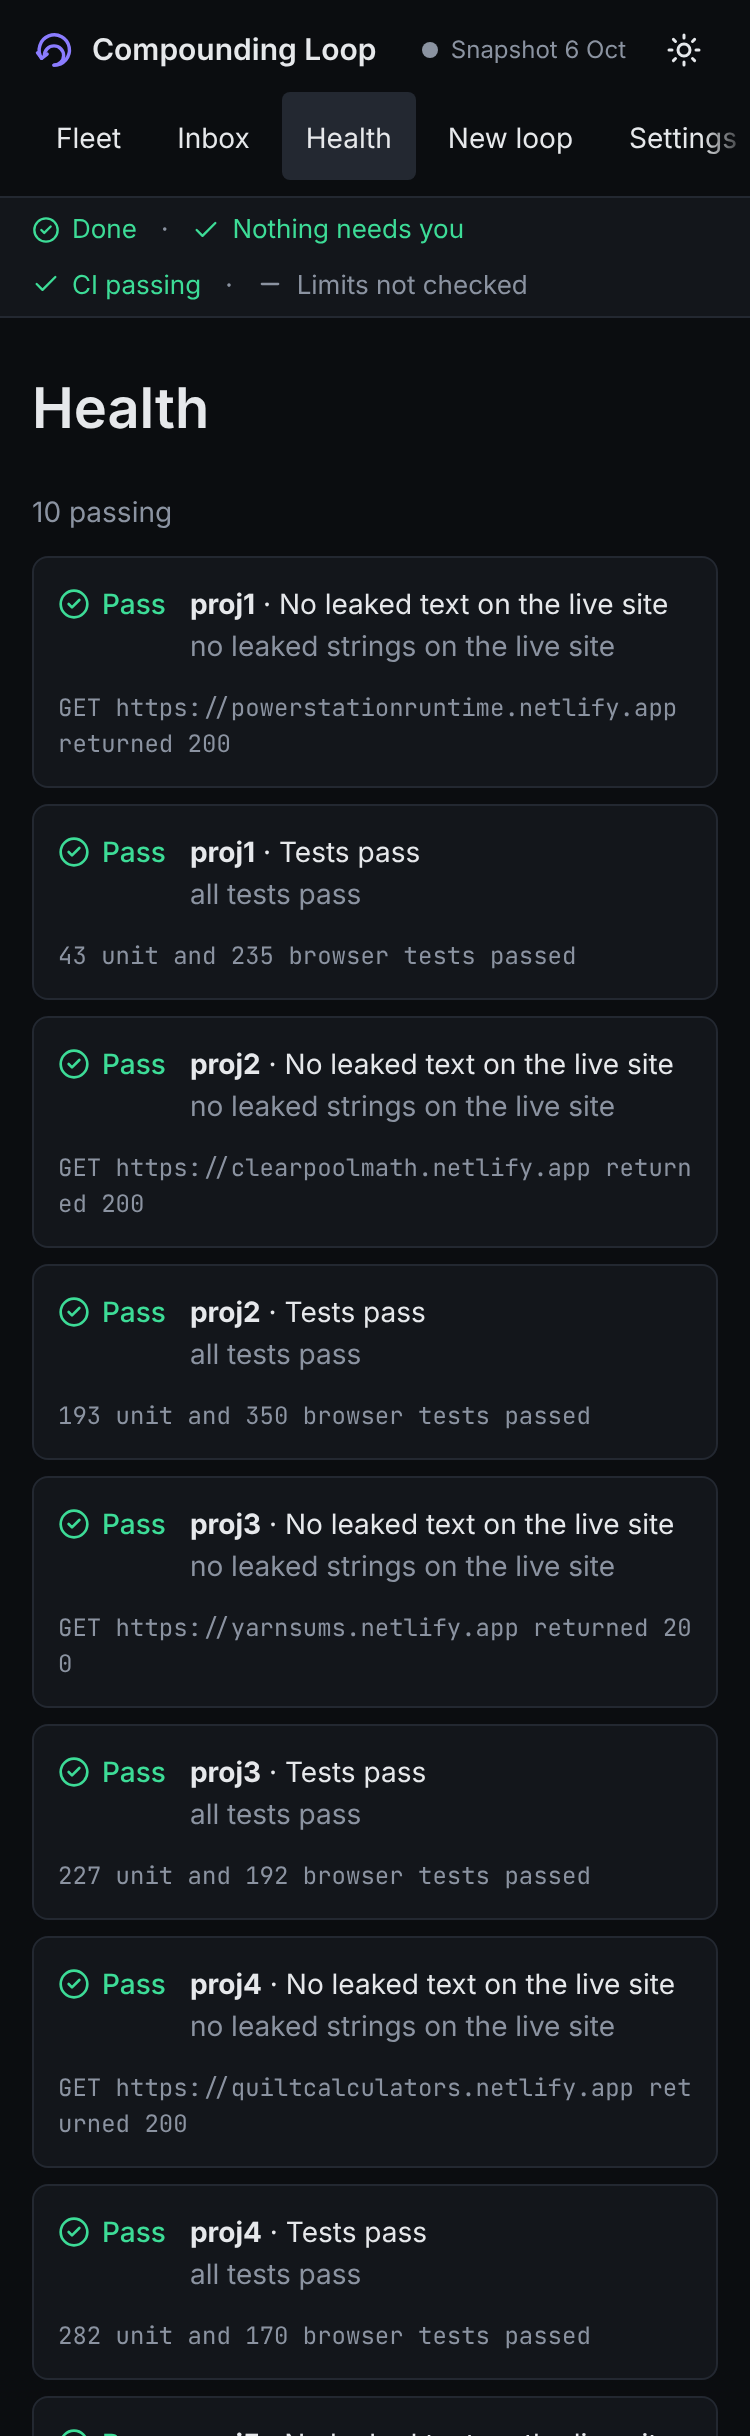
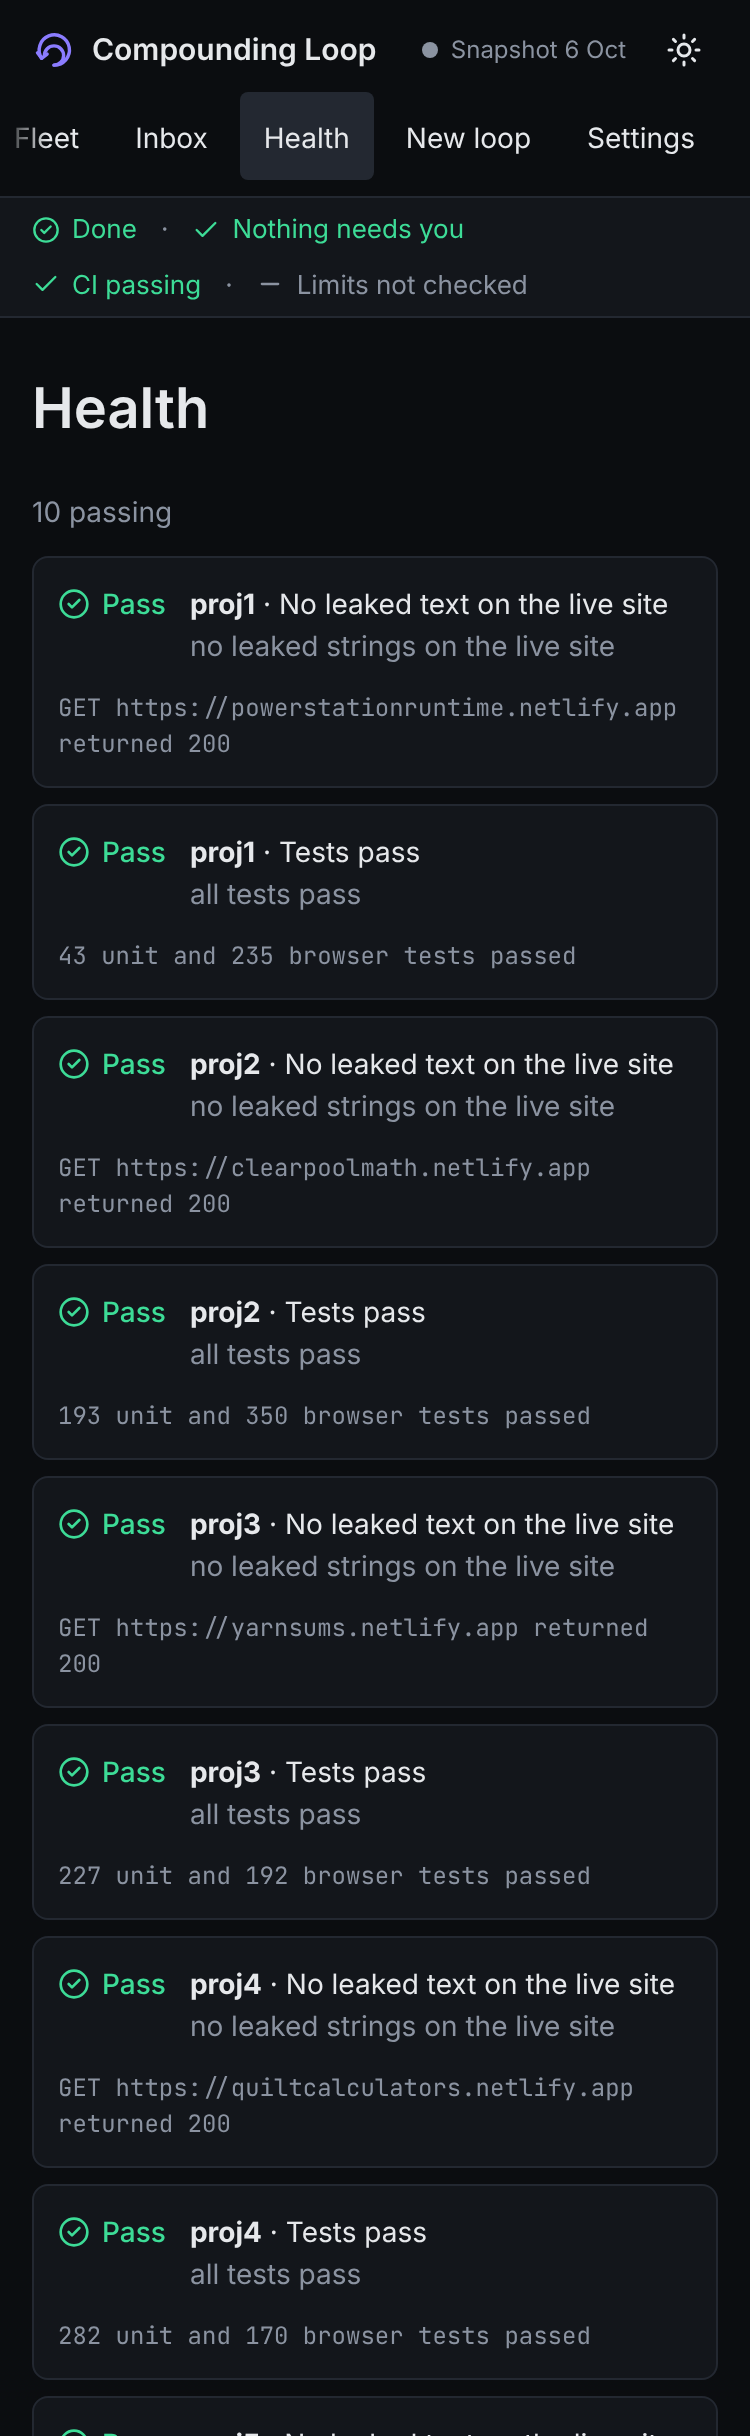
web: fleet limit stops total the loops that report them and name the unchecked rest; re-shoot Health phone
Lane: web

Claude-Session: https://claude.ai/code/session_0135eEZbXzaftKM6SoTFzsNQ

diff --git a/web/src/lib/strip.ts b/web/src/lib/strip.ts
@@ -58,14 +58,23 @@ export function allLanesSleeping(loop: Pick<LoopSummary, 'lanes' | 'runOutcomes'
   return open.length > 0 && open.every((l) => sleeping.has(l.name));
 }
 
+type LimitLoop = Pick<LoopSummary, 'lanes' | 'runOutcomes'>;
+
+/** A laned loop whose limit stops are known: it reports run outcomes and has not gone silent ("Routines look off" zeroes its count). */
+const limitsKnown = (l: LimitLoop) => l.lanes !== undefined && l.runOutcomes !== undefined && !l.runOutcomes.routinesLookOff;
+
 /**
- * Usage-limit stops in the last 5 h over the laned loops (only they have runs). Undefined ("not checked") unless every laned
- * loop reports run outcomes and none has gone silent ("Routines look off" zeroes the count), so none and unknown never look alike.
+ * Usage-limit stops in the last 5 h over the laned loops whose count is known (only laned loops have runs). Undefined
+ * ("not checked") when none is known, so none and unknown never look alike; `limitsUnchecked` counts the rest.
  */
-export function limitStopsOf(loops: Pick<LoopSummary, 'lanes' | 'runOutcomes'>[]): number | undefined {
-  const laned = loops.filter((l) => l.lanes !== undefined);
-  if (laned.length === 0 || laned.some((l) => !l.runOutcomes || l.runOutcomes.routinesLookOff)) return undefined;
-  return laned.reduce((n, l) => n + (l.runOutcomes?.limitStops5h ?? 0), 0);
+export function limitStopsOf(loops: LimitLoop[]): number | undefined {
+  const known = loops.filter(limitsKnown);
+  return known.length === 0 ? undefined : known.reduce((n, l) => n + (l.runOutcomes?.limitStops5h ?? 0), 0);
+}
+
+/** Laned loops whose limit stops are not known, so a fleet total can say it leaves them out. */
+export function limitsUnchecked(loops: LimitLoop[]): number {
+  return loops.filter((l) => l.lanes !== undefined && !limitsKnown(l)).length;
 }
 
 const STATE_TONE: Record<StripState, Tone> = {
@@ -130,11 +139,12 @@ function ciSegment(loops: Summary[], scoped: boolean): Segment {
   return { id: 'ci', text: `CI passing${partial}`, ...(partial && { short: `CI passing ${known.length}/${loops.length}` }), tone: 'done', icon: 'check' };
 }
 
-function limitSegment(limitStops: number | undefined, href: string | undefined): Segment {
-  // "None" and "unknown" must never look alike.
+function limitSegment(limitStops: number | undefined, unchecked: number, href: string | undefined): Segment {
+  // "None" and "unknown" must never look alike; a fleet total names the loops it leaves out, like the CI segment.
   if (limitStops === undefined) return { id: 'limits', text: 'Limit stops not checked', short: 'Limits not checked', tone: 'muted', icon: 'dash' };
-  if (limitStops === 0) return { id: 'limits', text: 'No limit stops', tone: 'muted', icon: 'check' };
-  return { id: 'limits', text: `${limitStops} limit stop${limitStops === 1 ? '' : 's'} in 5 h`, short: `${limitStops} limit stop${limitStops === 1 ? '' : 's'}`, tone: 'blocked', icon: 'warn', ...(href ? { href } : {}) };
+  const partial = unchecked > 0 ? ` · ${unchecked} not checked` : '';
+  if (limitStops === 0) return { id: 'limits', text: `No limit stops${partial}`, ...(partial && { short: `No stops · ${unchecked} unchecked` }), tone: 'muted', icon: 'check' };
+  return { id: 'limits', text: `${limitStops} limit stop${limitStops === 1 ? '' : 's'} in 5 h${partial}`, short: `${limitStops} limit stop${limitStops === 1 ? '' : 's'}`, tone: 'blocked', icon: 'warn', ...(href ? { href } : {}) };
 }
 
 function shipSegment(loops: Summary[], details: ReadonlyMap<string, Detail>): Segment | undefined {
@@ -198,7 +208,7 @@ export function stripSegments(input: StripInput): Segment[] {
     needsSegment(input.attention),
     roundSegment(loops, only ? details.get(only.id) : undefined, scoped),
     ciSegment(loops, scoped),
-    limitSegment(input.limitStops ?? limitStopsOf(loops), only ? `${loopHref(only.id)}` : undefined),
+    limitSegment(input.limitStops ?? limitStopsOf(loops), input.limitStops === undefined && !scoped ? limitsUnchecked(loops) : 0, only ? `${loopHref(only.id)}` : undefined),
     shipSegment(loops, details),
     nextSegment(loops, details, now),
   ];

diff --git a/tests/unit/web/strip.test.ts b/tests/unit/web/strip.test.ts
@@ -1,6 +1,6 @@
 import { describe, expect, it } from 'vitest';
 import type { LaneStatus, LoopDetail, LoopSummary } from '../../../src/core/types.js';
-import { allLanesSleeping, checksOk, doneWhenProgress, dueTime, limitStopsOf, loopStripState, stripSegments } from '../../../web/src/lib/strip.js';
+import { allLanesSleeping, checksOk, doneWhenProgress, dueTime, limitStopsOf, limitsUnchecked, loopStripState, stripSegments } from '../../../web/src/lib/strip.js';
 
 const NOW = new Date('2026-10-13T03:00:00Z');
 const lane = (name: string, state: LaneStatus['state']): LaneStatus => ({ name, state, run: 1, limit: 20, locked: false, unanswered: [] });
@@ -113,9 +113,15 @@ describe('run outcomes (server runOutcomes)', () => {
   });
   it('limit stops add up over loops that report them, else stay "not checked"', () => {
     expect(limitStopsOf([loop(), loop()])).toBeUndefined();
-    // Loops without lanes have no runs; every laned loop must report.
+    // Loops without lanes have no runs and are not "not checked" either.
     expect(limitStopsOf([loop({ lanes, runOutcomes: ro({ limitStops5h: 2 }) }), loop(), loop({ lanes, runOutcomes: ro() })])).toBe(2);
-    expect(limitStopsOf([loop({ lanes, runOutcomes: ro() }), loop({ lanes })])).toBeUndefined();
+    expect(limitsUnchecked([loop({ lanes, runOutcomes: ro({ limitStops5h: 2 }) }), loop(), loop({ lanes, runOutcomes: ro() })])).toBe(0);
+    // One silent or unreported loop no longer hides the others' known count; the fleet strip names it.
+    const fleet = [loop({ lanes, runOutcomes: ro({ limitStops5h: 2 }) }), loop({ lanes }), loop({ lanes, runOutcomes: ro({ routinesLookOff: true }) })];
+    expect(limitStopsOf(fleet)).toBe(2);
+    expect(limitsUnchecked(fleet)).toBe(2);
+    expect(text(stripSegments({ loops: fleet, scoped: false, attention: 0, now: NOW }), 'limits')).toBe('2 limit stops in 5 h · 2 not checked');
+    expect(text(stripSegments({ loops: [loop({ lanes, runOutcomes: ro() }), loop({ lanes })], scoped: false, attention: 0, now: NOW }), 'limits')).toBe('No limit stops · 1 not checked');
     // Gone silent: the server zeroes the count, which would read as "No limit stops".
     expect(limitStopsOf([loop({ lanes, runOutcomes: ro({ routinesLookOff: true }) })])).toBeUndefined();
     expect(text(stripSegments({ loops: [loop({ lanes, runOutcomes: ro({ limitStops5h: 2 }) })], scoped: true, attention: 0, now: NOW }), 'limits')).toBe('2 limit stops in 5 h');

diff --git a/web/DESIGN.md b/web/DESIGN.md
@@ -163,7 +163,7 @@ Same tokens and rules as sections 3-11; no new dependency (heat map and strip ar
 2. *Needs you*: "2 need you" (blocked colour, links to the Inbox) or "Nothing needs you" (done colour).
 3. *Round*: "Round 5 · 3 of 7 done-whens" (or the server's `roundLabel`).
 4. *CI*: "CI passing" (tick) / "CI failing" (cross) / "CI not checked" (grey dash).
-5. *Limit stops*: "2 limit stops in 5 h" (warn colour, links to the Runs tab) or "No limit stops" (muted); "Limit stops not checked" while run data is missing, so none and unknown never look alike.
+5. *Limit stops*: "2 limit stops in 5 h" (warn colour, links to the Runs tab) or "No limit stops" (muted); "Limit stops not checked" while run data is missing, so none and unknown never look alike. On the fleet, loops whose count is unknown (no run outcomes, or routines look off) are left out of the total and named: "2 limit stops in 5 h · 1 not checked" (phone: "No stops · 1 unchecked" when the total is zero).
 6. *Ship*: "Ready to ship" (tick) / "Not ready · <first failing check>" / "Released 0.4.0" / omitted while the round is still building (nothing to ship yet is not a question).
 7. *Next due*: "next: web 02:15 UTC" or "all lanes sleeping".
 On the fleet it summarises every loop; on a loop page, that loop. Precedence for segment 1 is by what needs action: Stalled > Release waiting > Running > Likely running > Paused > Sleeping > Idle > Released/Done, and a stalled lane is also an attention item, so Paused can never hide it. Text 13 px; height 32 px desktop, 2 × 28 px phone.
